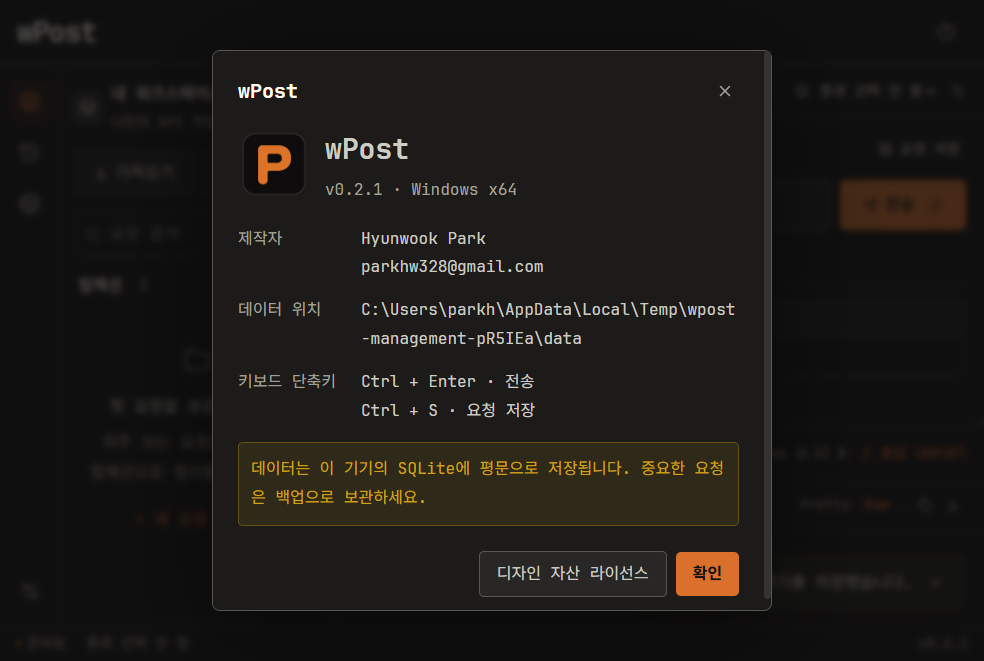
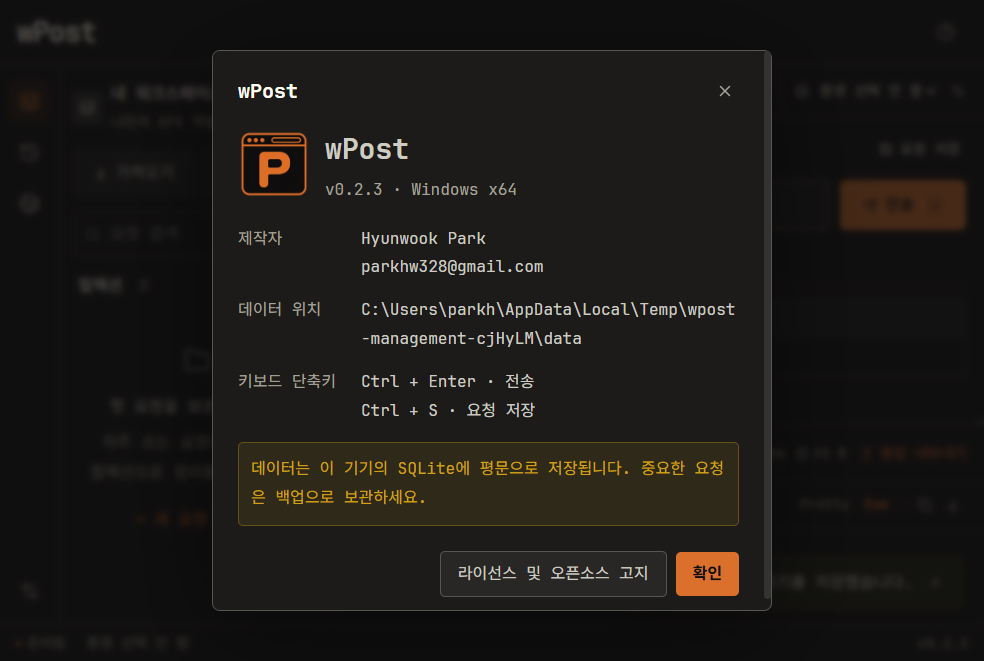
Add MIT license and bundled third-party notices for v0.2.3

diff --git a/src/renderer/src/App.tsx b/src/renderer/src/App.tsx
@@ -47,6 +47,8 @@ import flexokiLicense from '../../../licenses/Flexoki-MIT.txt?raw'
 import fontLicense from '../../../licenses/JetBrainsMono-OFL.txt?raw'
 import koreanFontLicense from '../../../licenses/NotoSansKR-OFL.txt?raw'
 import wShellLicense from '../../../licenses/wShell-MIT.txt?raw'
+import projectLicense from '../../../LICENSE?raw'
+import softwareLicenses from '../../../licenses/Software-LICENSES.txt?raw'
 
 type Tab = { draft: RequestDraft; baseline: string; response: HistoryEntry | null }
 type EditorSection = 'params' | 'headers' | 'body' | 'auth' | 'settings'
@@ -1647,7 +1649,7 @@ export function App() {
           </p>
           <div className="modal-actions">
             <button className="secondary-button" onClick={() => setModal('licenses')}>
-              디자인 자산 라이선스
+              라이선스 및 오픈소스 고지
             </button>
             <button className="primary-button" onClick={() => setModal(null)}>
               확인
@@ -1656,13 +1658,16 @@ export function App() {
         </Modal>
       )}
       {modal === 'licenses' && (
-        <Modal title="디자인 자산 라이선스" onClose={() => setModal(null)} wide>
+        <Modal title="라이선스 및 오픈소스 고지" onClose={() => setModal(null)} wide>
           <p className="modal-description">
-            wPost는 전용 P 아이콘과 Flexoki Dark 테마를 사용합니다. 기본 영문 글꼴 JetBrains Mono와
-            한글 글꼴 Noto Sans KR은 원본 그대로 포함했습니다.
+            wPost는 MIT 라이선스로 제공합니다. 포함된 라이브러리·글꼴·테마는 각 원래 라이선스를
+            따릅니다. Electron의 전체 구성요소 고지는 설치 폴더의 LICENSES.chromium.html에서 확인할
+            수 있습니다.
           </p>
           <div className="license-list">
             {[
+              ['wPost · MIT', projectLicense],
+              ['React · React DOM · Scheduler · Lucide · Zod · Electron', softwareLicenses],
               ['wShell 디자인 참조 · MIT', wShellLicense],
               ['Flexoki 색상 · MIT', flexokiLicense],
               ['JetBrains Mono · SIL Open Font License 1.1', fontLicense],

diff --git a/tests/e2e/desktop.spec.ts b/tests/e2e/desktop.spec.ts
@@ -299,7 +299,14 @@ test('bundled Latin and Korean fonts, readable type and compact layouts work in 
   await page.getByRole('button', { name: '취소', exact: true }).click()
   await page.getByRole('button', { name: '앱 정보', exact: true }).click()
   await expect(page.getByRole('dialog')).not.toContainText('알파')
-  await page.getByRole('button', { name: '디자인 자산 라이선스', exact: true }).click()
+  await page.getByRole('button', { name: '라이선스 및 오픈소스 고지', exact: true }).click()
+  const ownLicense = page.locator('.license-list details').filter({ hasText: 'wPost · MIT' })
+  await ownLicense.locator('summary').click()
+  await expect(ownLicense.locator('pre')).toContainText('Copyright (c) 2026 Hyunwook Park')
+  const software = page.locator('.license-list details').filter({ hasText: 'React · React DOM' })
+  await software.locator('summary').click()
+  await expect(software.locator('pre')).toContainText('Copyright (c) 2013-present Cole Bemis')
+  await expect(software.locator('pre')).toContainText('scheduler ')
   await page.getByText('Noto Sans KR · SIL Open Font License 1.1', { exact: true }).click()
   await expect(page.locator('.license-list details').last().locator('pre')).toContainText(
     'SIL OPEN FONT LICENSE',

diff --git a/README.md b/README.md
@@ -4,13 +4,19 @@
 
 Windows x64에서 사용하는 로컬 API 클라이언트입니다. 요청 작성부터 응답 확인, 컬렉션 관리, 히스토리 백업까지 한국어 화면으로 제공합니다.
 
-**현재 버전: 0.2.2** · 제작자: **Hyunwook Park (parkhw328@gmail.com)**
+**현재 버전: 0.2.3** · 제작자: **Hyunwook Park (parkhw328@gmail.com)**
 
 **[Windows x64 최신 설치 파일 다운로드](https://github.com/parkhw328/wook-post/releases/latest/download/wPost-x64-Setup.exe)**
 
 [릴리스 정보](https://github.com/parkhw328/wook-post/releases/latest) · [SHA-256 체크섬](https://github.com/parkhw328/wook-post/releases/latest/download/wPost-x64-Setup.exe.sha256)
 
 GitHub Releases에는 최신 정식 버전 1개를 제공합니다. 위 링크는 새 버전이 나와도 그대로 사용할 수 있습니다.
+
+## 라이선스
+
+wPost의 자체 코드와 권리를 보유한 자산은 [MIT 라이선스](LICENSE)로 제공합니다. 저작권·라이선스 고지를 유지하면 사용·수정·재배포·상업적 이용이 가능합니다.
+
+포함된 라이브러리·글꼴·테마는 [제3자 고지](THIRD_PARTY_NOTICES.md)의 원래 라이선스를 따릅니다. 설치된 앱의 **앱 정보 → 라이선스 및 오픈소스 고지**에서도 확인할 수 있습니다. 공개·재배포 조건과 확인 범위는 [라이선스 검토 기록](docs/licensing.md)에 정리했습니다.
 
 wShell과 같은 주황색·차콜 테마의 **브라우저 창 안의 대문자 `P` 아이콘**과 Flexoki Dark 테마를 사용합니다. 기본 영문 **JetBrains Mono**, 한글 **Noto Sans KR**를 앱에 포함합니다. 기본 UI 16px, URL·코드 17px, 보조 정보 14px이며 앱 설정에서 글꼴과 크기를 바꿀 수 있습니다. [브랜딩 기준과 호환성](docs/branding.md)을 참고하세요.
 
@@ -88,7 +94,7 @@ npm ci
 npm run dist:win
 ```
 
-타입·포맷·테스트·번들 빌드 후 `release/0.2.2/wPost-0.2.2-x64-Setup.exe`와 SHA-256 체크섬을 생성합니다. 버전별 폴더를 사용해 다른 버전의 빌드를 보존합니다. [릴리스 폴더 안내](release/README.md)를 참고하세요. NSIS 기반 설치 마법사에서 설치 경로를 선택할 수 있고 바탕화면·시작 메뉴 바로가기를 제공합니다. 상용 InstallShield 프로젝트 파일은 사용하지 않습니다.
+타입·포맷·테스트·번들 빌드 후 `release/0.2.3/wPost-0.2.3-x64-Setup.exe`와 SHA-256 체크섬을 생성합니다. 버전별 폴더를 사용해 다른 버전의 빌드를 보존합니다. [릴리스 폴더 안내](release/README.md)를 참고하세요. NSIS 기반 설치 마법사에서 설치 경로를 선택할 수 있고 바탕화면·시작 메뉴 바로가기를 제공합니다. 상용 InstallShield 프로젝트 파일은 사용하지 않습니다.
 
 현재 Linux 개발 환경에서 Windows 설치 과정은 검증하지 않았습니다. [배포 체크리스트](docs/releasing.md)로 실제 Windows 설치·업그레이드·제거를 확인해야 합니다. 코드 서명은 아직 구성하지 않았습니다.
 
@@ -130,7 +136,7 @@ TypeScript strict 모드, 2칸 들여쓰기, Prettier를 사용합니다. 컴포
 
 [작업 기록](rules/rules.md) · [변경 이력](CHANGELOG.md) · [경쟁 제품 조사](docs/benchmark.md) · [버전·배포 절차](docs/releasing.md)
 
-공유 디자인 자산의 출처와 라이선스는 [디자인 자산 고지](THIRD_PARTY_NOTICES.md)에 기록합니다. 설치된 앱에서도 **앱 정보 → 디자인 자산 라이선스**로 확인할 수 있습니다.
+공유 디자인 자산의 출처와 라이선스는 [디자인 자산 고지](THIRD_PARTY_NOTICES.md)에 기록합니다. 설치된 앱에서도 **앱 정보 → 라이선스 및 오픈소스 고지**로 확인할 수 있습니다.
 
 `0.2.0`의 [기능·호환성 점검 결과](docs/reviews/v0.2.0.md)와 `0.1.0`의 [전체 점검 기록](docs/reviews/v0.1.0.md)을 확인할 수 있습니다.
 

diff --git a/docs/licensing.md b/docs/licensing.md
@@ -1,0 +1,35 @@
+# 라이선스 및 재배포 확인
+
+검토일: 2026-10-09. 대상: wPost 0.2.3의 소스, 직접 사용하는 라이브러리와 Scheduler, 번들 글꼴·디자인 자산, Windows 패키지의 라이선스 파일.
+
+## 프로젝트 라이선스
+
+소유자의 선택에 따라 프로젝트 자체 코드와 권리를 보유한 자산은 MIT로 제공한다. 루트 `LICENSE`와 `package.json`의 `license: MIT`가 기준이다. `private: true`는 npm에 실수로 패키지를 게시하는 것을 방지하는 설정이며, MIT 라이선스 또는 GitHub 공개 저장소 운영과 충돌하지 않는다.
+
+[MIT 공식 원문](https://opensource.org/license/mit)은 사용·수정·재배포·상업적 이용을 허용하며 저작권 및 허가 고지 보존을 요구한다. 제3자 코드를 자체 MIT 저작물로 바꾸는 것은 아니다.
+
+## 포함 구성요소
+
+- React·React DOM·Scheduler·Zod는 설치된 패키지의 MIT 원문을 보존한다.
+- [Lucide](https://lucide.dev/license)는 ISC이며 Feather에서 유래한 아이콘의 MIT 고지도 함께 보존한다. 패키지 LICENSE 전체를 복사하므로 두 고지를 모두 포함한다.
+- [SIL OFL 1.1](https://openfontlicense.org/open-font-license-official-text/)의 JetBrains Mono와 Noto Sans KR은 수정 없이 앱에 번들한다. 글꼴 파일은 계속 OFL을 따르고, 글꼴 단독 판매 및 수정 글꼴의 Reserved Font Name 조건을 준수해야 한다. 앱 코드까지 OFL로 바꿀 필요는 없다.
+- Flexoki와 wShell 디자인 참조의 MIT 저작권·허가 고지를 유지한다.
+- Electron 자체는 MIT이지만 Chromium·Node.js·FFmpeg 등 모든 구성요소가 MIT인 것은 아니다. 배포 원본의 `LICENSE.electron.txt`와 `LICENSES.chromium.html`을 유지한다. 원본 코드와 고정된 의존성 정의는 [Electron v44.7.0](https://github.com/electron/electron/tree/v44.7.0)에서 확인할 수 있다. 런타임 수정·재빌드나 별도 구성요소 재배포는 해당 구성요소의 소스 제공 등 추가 조건을 다시 검토한다.
+
+직접 확인한 패키지의 버전과 전체 라이선스 원문은 `licenses/Software-LICENSES.txt`, 글꼴·테마 원문은 `licenses/`에 보관한다. 빌드마다 `npm run licenses:sync`로 소프트웨어 고지를 동기화한다. 새로운 런타임 의존성을 추가하면 스크립트 목록과 `THIRD_PARTY_NOTICES.md`도 갱신한다.
+
+## 아이콘·로고
+
+브라우저 안의 P 아이콘은 wShell 참조 이미지를 바탕으로 OpenAI 이미지 생성 도구로 편집했다. 생성 과정과 프롬프트는 `assets/branding/README.md`에 보존한다. 기존 참조의 MIT 고지는 유지한다.
+
+[OpenAI 이용약관](https://openai.com/policies/terms-of-use/)은 적용 법이 허용하는 범위에서 사용자와 OpenAI 사이의 출력물 권리를 사용자에게 귀속시키지만, 생성물의 독창성·독점성이나 제3자 권리 비침해를 보증하는 것은 아니다. 이름·로고의 상표 충돌이나 모든 코드의 독립적인 출처 검증은 이번 확인 범위에 포함되지 않는다.
+
+## 공개 판단과 배포 파일
+
+확인한 직접 의존성과 디자인 자산에서 공개 또는 상업적 배포 자체를 금지하는 조건은 발견하지 않았다. 해당 조건과 고지를 지키는 공개 배포가 가능한 구성으로 판단하지만, 이를 모든 법적 쟁점에 대한 무조건적인 보증으로 해석해서는 안 된다.
+
+- 설치 패키지의 `resources/LICENSE`, `resources/THIRD_PARTY_NOTICES.md`, `resources/licenses/`를 보존한다.
+- 실행 파일 옆의 Electron·Chromium 고지 파일도 보존한다.
+- 새 버전 게시 전에 원본 라이선스와 패키지의 파일이 일치하는지 확인한다.
+
+이번 작업은 저장소의 공개/비공개 설정을 변경하지 않는다. GitHub 저장소 공개는 별도의 작업이다.

diff --git a/THIRD_PARTY_NOTICES.md b/THIRD_PARTY_NOTICES.md
@@ -1,6 +1,24 @@
-# Design Asset Notices
+# Third-Party Notices
 
-wPost uses the following design assets from the sibling wShell project and Google Fonts. Copies of their license texts are included in `licenses/`, shipped with the application, and available in **앱 정보 → 디자인 자산 라이선스**.
+wPost's own code and project-owned assets are offered under the root [MIT License](LICENSE), to the extent rights are held. Third-party components remain under their original licenses; the root license does not relicense fonts, libraries, or Electron/Chromium components.
+
+## Bundled software
+
+Full, unmodified upstream license texts are preserved in [`licenses/Software-LICENSES.txt`](licenses/Software-LICENSES.txt), generated from the installed versions by `npm run licenses:sync` during every build.
+
+| Component         | Version | License                                                         |
+| ----------------- | ------- | --------------------------------------------------------------- |
+| React / React DOM | 19.3.0  | MIT                                                             |
+| Scheduler         | 0.28.0  | MIT                                                             |
+| Lucide React      | 1.52.0  | ISC; Feather-derived icons retain their MIT notice              |
+| Zod               | 4.6.5   | MIT                                                             |
+| Electron          | 44.7.0  | MIT for Electron itself; component-specific licenses also apply |
+
+React, React DOM, Scheduler, Lucide and Zod are bundled into the renderer; Zod is also shipped as a main-process dependency. Electron's original `LICENSE.electron.txt` and `LICENSES.chromium.html` remain beside the executable. The latter contains the complete upstream component notices, including FFmpeg; these components are not all MIT-licensed. Electron source and its pinned dependency definitions are available at [electron/electron v44.7.0](https://github.com/electron/electron/tree/v44.7.0). Do not remove these files when redistributing the installer or unpacked app.
+
+## Fonts and design references
+
+wPost uses the following design assets from the sibling wShell project and Google Fonts. Copies of their license texts are included in `licenses/`, shipped with the application, and available in **앱 정보 → 라이선스 및 오픈소스 고지**.
 
 | Asset                                            | Origin                                                                                                                                                                                                                          | License                                                                         | Local copy                       |
 | ------------------------------------------------ | ------------------------------------------------------------------------------------------------------------------------------------------------------------------------------------------------------------------------------- | ------------------------------------------------------------------------------- | -------------------------------- |

diff --git a/rules/rules.md b/rules/rules.md
@@ -191,3 +191,13 @@
 - 삭제 전 원격 작업 브랜치 6개와 로컬 작업 브랜치 3개의 모든 커밋이 main에 포함되어 있음을 확인했다. 별도 worktree나 미커밋 변경은 없었다.
 - 버전 태그, GitHub 최신 릴리스, 로컬 release/<version>/ 산출물은 유지한다.
 - 현재 운영 절차를 갱신했으며 이전 작업 기록에 나오는 브랜치 이름은 과거 이력으로 보존한다.
+
+## 2026-10-09 · 0.2.3 MIT 라이선스와 제3자 고지
+
+- 사용자 선택에 따라 프로젝트 코드를 MIT로 고지하고 저작권자를 Hyunwook Park으로 명시했다. README·package.json·앱 정보·설치 리소스에 반영했다.
+- React·React DOM·Scheduler·Lucide/Feather·Zod·Electron의 설치된 버전과 라이선스 원문을 Software-LICENSES.txt에 보존한다. 빌드 시 licenses:sync로 동기화한다.
+- 기존 글꼴 OFL, Flexoki/wShell MIT, Electron/Chromium 구성요소별 라이선스는 그대로 유지한다. 프로젝트 MIT가 제3자 구성요소를 재라이선스하지 않음을 명시했다.
+- 공개·재배포 조건과 생성 아이콘의 검토 한계는 docs/licensing.md에 공식 출처와 함께 기록했다. 상표 또는 모든 소스의 권리 비침해에 대한 보증은 하지 않는다.
+- 검증: 타입·포맷·단위/통합 테스트 35개, Electron UI 8개, NSIS 빌드 성공. 패키지의 프로젝트·제3자·글꼴·Electron·Chromium 고지 파일의 해시가 원본과 일치한다.
+- 설치 파일: release/0.2.3/wPost-0.2.3-x64-Setup.exe. SHA-256: bbfd9fa2077861e006bf43e5109b3a570ab8526887660a38a80cbf2f75f245e4.
+- 저장소의 비공개 설정은 유지한다. 최신 릴리스 게시 대상은 v0.2.3이며 이전 로컬 버전과 Git 태그는 보존한다.

diff --git a/docs/branding.md b/docs/branding.md
@@ -2,7 +2,7 @@
 
 ## 기준
 
-표기명은 **wPost**이다. `w`는 소문자, `P`는 대문자로 쓴다. wShell과 Flexoki Dark 테마·기본 글꼴을 공유하되, 주황색 브라우저 창 안에 P를 배치해 제품군의 일관성과 웹/API 도구의 식별을 함께 유지한다. 현재 버전은 프리릴리즈 접미사가 없는 `0.2.2`이다. 앱 화면과 설치기에 ALPHA 배지를 표시하지 않는다.
+표기명은 **wPost**이다. `w`는 소문자, `P`는 대문자로 쓴다. wShell과 Flexoki Dark 테마·기본 글꼴을 공유하되, 주황색 브라우저 창 안에 P를 배치해 제품군의 일관성과 웹/API 도구의 식별을 함께 유지한다. 현재 버전은 프리릴리즈 접미사가 없는 `0.2.3`이다. 앱 화면과 설치기에 ALPHA 배지를 표시하지 않는다.
 
 참조 저장소: `/data/project/wook-shell`, 커밋 `970b131099ca3905607cc19ec60106af529adb4c`. 기준 문서는 `assets/branding/README.md`, `rules/product.md`, `rules/workspace-ui.md`이며 색상은 `src/ui.hpp`와 `mac/Sources/WShell/Theme.swift`를 확인했다. 참조 저장소는 변경하지 않는다.
 

diff --git a/CHANGELOG.md b/CHANGELOG.md
@@ -1,5 +1,11 @@
 # Changelog
 
+## 0.2.3 · 2026-10-09
+
+- 프로젝트 MIT 라이선스와 저작권 고지를 추가하고 README·앱 정보·설치 파일에 반영.
+- React·React DOM·Scheduler·Lucide/Feather·Zod·Electron의 라이선스 원문을 보존하고 빌드 시 동기화.
+- 제3자 글꼴·테마와 Electron/Chromium 구성요소는 각각의 원래 라이선스를 유지함을 명시.
+
 ## 0.2.2 · 2026-10-09
 
 - 주황색 P를 브라우저 창 안에 배치한 아이콘으로 변경하고 앱·설치기·README 로고에 적용.

diff --git a/assets/branding/README.md b/assets/branding/README.md
@@ -11,6 +11,10 @@ the SVG wordmark uses the exact accent value.
 
 ## Assets
 
+Project-owned branding is offered under the root MIT license to the extent
+rights are held. The wShell reference notice remains in `licenses/wShell-MIT.txt`.
+Generated output does not imply exclusive rights or trademark clearance.
+
 | File | Purpose |
 | --- | --- |
 | `wpost-icon.png` | Generated master icon with transparent exterior corners |
